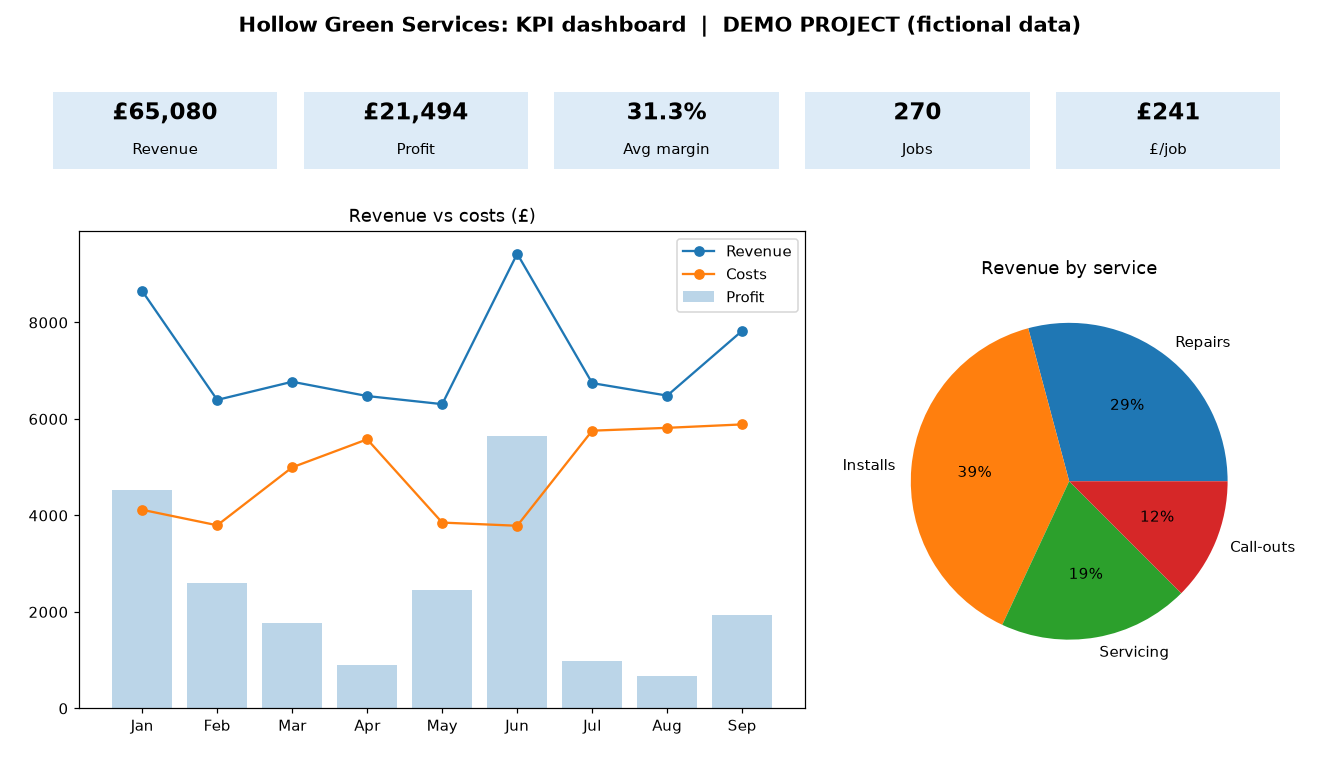
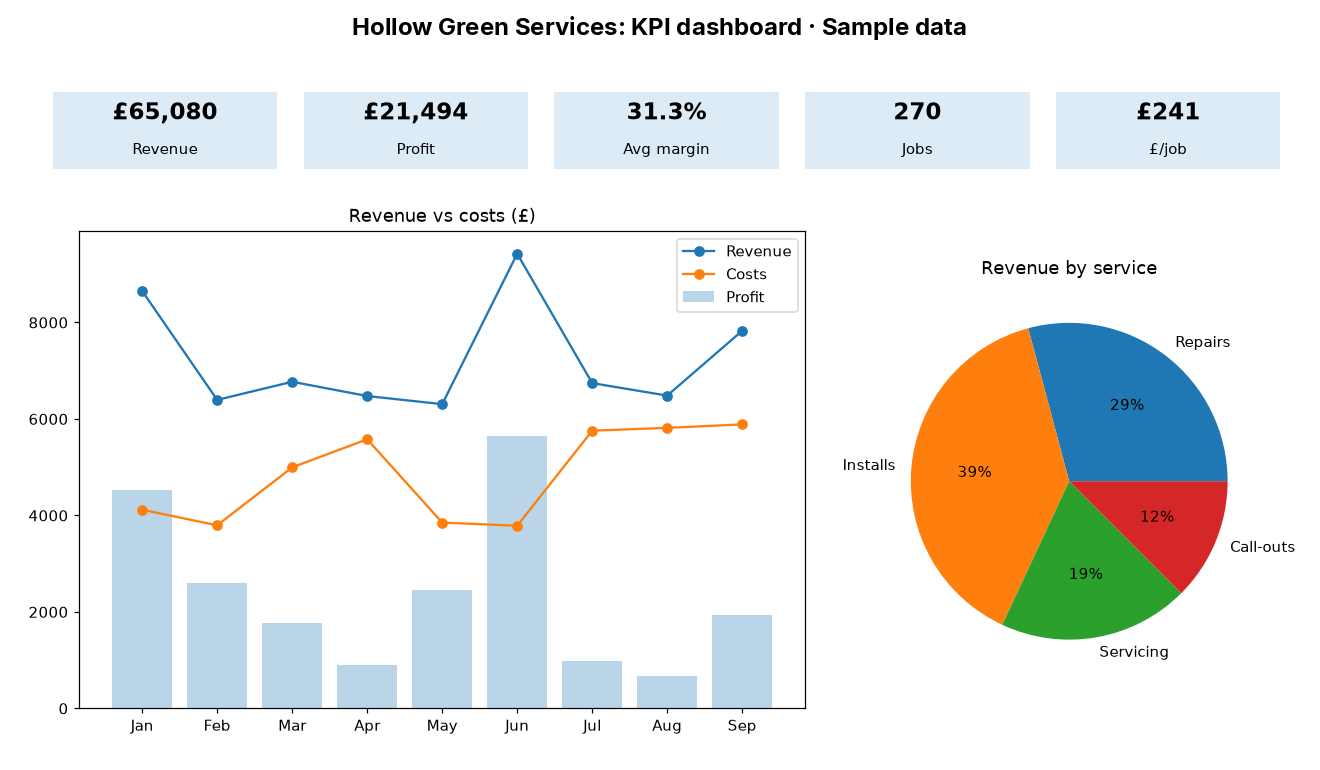
Replace the invoice terminal with an on-brand workbook preview
Show the sample invoice merge as a workbook preview with client totals, unpaid balances and a chart, and use that same graphic on the homepage card. Remove the banned sample labelling from the page, the script and the KPI workbook.

Changed region(s): [[0.1864, 0.0, 0.8076, 0.0623]]

diff --git a/demos/automation/index.html b/demos/automation/index.html
@@ -7,11 +7,11 @@
 <link rel="icon" type="image/png" sizes="32x32" href="/assets/icon-32.png">
 <link rel="apple-touch-icon" href="/assets/icon-180.png">
 <meta name="robots" content="noindex,nofollow">
-<title>Automation samples (Demo) | NewCo Studio portfolio</title>
-<meta name="description" content="Sample Python and spreadsheet automation: an invoice CSV merge and a small-business KPI dashboard. Fictional data by NewCo Studio.">
+<title>Automation samples | NewCo Studio</title>
+<meta name="description" content="Sample Python and spreadsheet automation: an invoice CSV merge and a small-business KPI dashboard. Sample data by NewCo Studio.">
 <meta property="og:type" content="website">
-<meta property="og:title" content="Automation samples (Demo) | NewCo Studio portfolio">
-<meta property="og:description" content="Sample Python and spreadsheet automation: an invoice CSV merge and a small-business KPI dashboard. Fictional data by NewCo Studio.">
+<meta property="og:title" content="Automation samples | NewCo Studio">
+<meta property="og:description" content="Sample Python and spreadsheet automation: an invoice CSV merge and a small-business KPI dashboard. Sample data by NewCo Studio.">
 <meta property="og:url" content="https://studio.newcopacks.co.uk/demos/automation/">
 <meta property="og:image" content="https://studio.newcopacks.co.uk/demos/automation/dashboard_render.png">
 <meta name="twitter:card" content="summary_large_image">
@@ -24,8 +24,81 @@ body{background:var(--sand)}
 .top .wrap{display:flex;align-items:center;justify-content:space-between;gap:16px;min-height:68px}
 main{padding:48px 0 80px}
 .case{background:#fff;border:1px solid var(--line);border-radius:var(--r);overflow:hidden;margin:28px 0}
-.case img{width:100%;height:auto;background:#111}
+.case img{width:100%;height:auto;background:#fff;display:block}
 .case .body{padding:28px}
+.sheet{background:#fff;color:var(--ink)}
+.sheet-bar{display:grid;grid-template-columns:minmax(0,1fr) auto;align-items:center;gap:12px;padding:16px 18px;background:radial-gradient(70% 160% at 100% 0%,rgba(156,196,184,.32),transparent 58%),var(--deep);color:#fff}
+.sheet-id{display:flex;align-items:center;gap:12px;min-width:0}
+.sheet-id>div{min-width:0}
+.sheet-ic{width:36px;height:36px;border-radius:10px;background:rgba(156,196,184,.16);display:grid;place-items:center;color:var(--mint);flex:none}
+.sheet-ic svg{width:20px;height:20px}
+.sheet-name{margin:0;font:700 1.02rem/1.2 Jakarta,Inter,sans-serif;letter-spacing:-.015em}
+.sheet-sub{margin:2px 0 0;color:#D5E4DF;font-size:.8rem}
+.sheet .pill{background:var(--mint);color:var(--deep);border-radius:999px;padding:6px 12px;font:600 .78rem/1 Inter,sans-serif;flex:none}
+.kpis{display:grid;grid-template-columns:1fr 1fr;margin:0}
+.kpis div{padding:14px 16px 13px;border-bottom:1px solid var(--line)}
+.kpis div:nth-child(odd){border-right:1px solid var(--line)}
+.kpis dt{margin:0;font:600 .72rem/1.2 Inter,sans-serif;letter-spacing:.08em;text-transform:uppercase;color:var(--muted)}
+.kpis dd{margin:6px 0 0;font:800 1.2rem/1 Jakarta,sans-serif;letter-spacing:-.03em;color:var(--deep);font-variant-numeric:tabular-nums;white-space:nowrap}
+.kpis .due dd{color:var(--teal)}
+.sheet-split{display:grid;gap:6px;padding:14px 16px 4px}
+table.inv{width:100%;border-collapse:collapse;font-variant-numeric:tabular-nums}
+table.inv th,table.inv td{padding:9px 8px 9px 0;text-align:right;font-weight:500;font-size:.92rem;border-bottom:1px solid var(--line);vertical-align:middle}
+table.inv thead th{font:600 .7rem/1.2 Inter,sans-serif;letter-spacing:.08em;text-transform:uppercase;color:var(--muted)}
+table.inv tbody th,table.inv thead th:first-child,table.inv tfoot th{text-align:left;color:var(--deep);font-weight:600}
+table.inv td:last-child{color:var(--teal);font-weight:600}
+table.inv tbody tr:last-child th,table.inv tbody tr:last-child td{border-bottom:0}
+table.inv tfoot th,table.inv tfoot td{border-top:2px solid var(--deep);border-bottom:0;background:#F7F4EE;font-weight:700;color:var(--deep);padding-top:11px;padding-bottom:11px}
+table.inv tfoot td:last-child{color:var(--teal)}
+.count{display:block;margin-top:2px;font:500 .75rem/1.3 Inter,sans-serif;color:var(--muted);letter-spacing:0;text-transform:none}
+.col-n{display:none}
+.bars .chart-title{margin:10px 0 12px;font:700 .98rem/1.2 Jakarta,sans-serif;color:var(--deep)}
+.brow{margin:0 0 11px}
+.bmeta{display:flex;justify-content:space-between;gap:10px;align-items:baseline;margin-bottom:5px;font-size:.84rem}
+.bmeta span:first-child{font-weight:600;color:var(--deep);min-width:0}
+.bmeta span:last-child{font-variant-numeric:tabular-nums;color:var(--teal);font-weight:600;white-space:nowrap}
+.track{height:9px;background:#E7E2D8;border-radius:999px;overflow:hidden}
+.bar{display:flex;height:100%;border-radius:999px;overflow:hidden}
+.bar i{display:block;height:100%}
+.bar .paid{background:var(--mint)}
+.bar .unpaid{background:var(--deep)}
+.legend{display:flex;flex-wrap:wrap;gap:8px 16px;align-items:center;margin:2px 0 8px;padding:0;list-style:none;font-size:.78rem;color:var(--muted)}
+.legend li{display:flex;align-items:center;gap:6px}
+.legend b{width:10px;height:10px;border-radius:3px;display:block}
+.legend .paid{background:var(--mint)}
+.legend .unpaid{background:var(--deep)}
+.sheet-note{margin:0;padding:4px 16px 16px;font-size:.84rem;color:var(--muted)}
+.vh{position:absolute;width:1px;height:1px;padding:0;margin:-1px;overflow:hidden;clip:rect(0 0 0 0);white-space:nowrap;border:0}
+@media (max-width:759px){
+table.inv th,table.inv td{font-size:.86rem;padding:8px 4px 8px 0}
+.kpis dd{font-size:1.15rem}
+}
+@media (max-width:520px){
+.sheet-bar{grid-template-columns:1fr;justify-items:start;gap:10px}
+}
+@media (max-width:380px){
+.kpis dd{font-size:1.05rem}
+table.inv thead{display:none}
+table.inv,table.inv tbody,table.inv tfoot{display:block;width:100%}
+table.inv tr{display:grid;grid-template-columns:1fr 1fr;column-gap:12px;row-gap:2px;padding:11px 0 12px;border-bottom:1px solid var(--line)}
+table.inv tbody th,table.inv tfoot th{grid-column:1/-1;border:0;padding:0 0 4px;text-align:left}
+table.inv td{display:block;text-align:left;border:0;padding:0}
+table.inv td.col-n{display:none}
+table.inv td::before{content:attr(data-label);display:block;margin-bottom:2px;font:600 .68rem/1.2 Inter,sans-serif;letter-spacing:.08em;text-transform:uppercase;color:var(--muted)}
+table.inv tfoot tr{background:#F7F4EE;border:0;border-top:2px solid var(--deep);border-radius:10px;margin-top:8px;padding:12px 10px}
+table.inv tfoot th,table.inv tfoot td{background:transparent;border:0}
+}
+@media (min-width:760px){
+.kpis{grid-template-columns:repeat(4,1fr)}
+.kpis div{border-right:1px solid var(--line)}
+.kpis div:last-child{border-right:0}
+.kpis dd{font-size:1.45rem}
+.sheet-split{grid-template-columns:minmax(0,1.2fr) minmax(0,.9fr);gap:28px;align-items:start;padding:18px 18px 8px}
+.col-n{display:table-cell}
+.count{display:none}
+.bars .chart-title{margin-top:0}
+.sheet-note{padding:0 18px 18px}
+}
 .files{display:flex;flex-wrap:wrap;gap:10px;margin-top:8px}
 </style>
 </head>
@@ -40,10 +113,53 @@ main{padding:48px 0 80px}
 <div class="wrap">
 <span class="eyebrow">Automation samples</span>
 <h1>Small jobs, shown working.</h1>
-<p class="lead">Two samples with sample numbers. Open the screenshots here, or download the Python script and the Excel workbooks. Nothing on this page is a real client.</p>
+<p class="lead">Two samples with sample numbers. The invoice summary is shown below, and you can download the Python script and the Excel workbooks. Nothing on this page is a real client.</p>
 
 <article class="case">
-<img src="screenshot_terminal.png" width="820" height="260" alt="Terminal output of a Python script merging invoice CSV files into an Excel summary">
+<div class="sheet" aria-labelledby="sheet-title">
+<div class="sheet-bar">
+<div class="sheet-id">
+<span class="sheet-ic" aria-hidden="true"><svg viewBox="0 0 24 24" fill="none" stroke="currentColor" stroke-width="1.8" stroke-linejoin="round"><rect x="3" y="2.5" width="18" height="19" rx="2"/><path d="M3 8.5h18M3 14h18M9 8.5V21.5M15 8.5V21.5"/></svg></span>
+<div>
+<p class="sheet-name" id="sheet-title">invoice_summary.xlsx</p>
+<p class="sheet-sub">By client · 3 source files</p>
+</div>
+</div>
+<span class="pill">Sample data</span>
+</div>
+<dl class="kpis">
+<div><dt>Invoices</dt><dd>24</dd></div>
+<div><dt>Invoiced</dt><dd>£10,850.53</dd></div>
+<div class="due"><dt>Unpaid</dt><dd>£2,978.43</dd></div>
+<div><dt>Source files</dt><dd>3</dd></div>
+</dl>
+<div class="sheet-split">
+<table class="inv">
+<caption class="vh">Sample totals by client. Amounts are example output, not a client job.</caption>
+<thead>
+<tr><th>Client</th><th class="col-n">Invoices</th><th>Total</th><th>Unpaid</th></tr>
+</thead>
+<tbody>
+<tr><th scope="row">Elmford Garage<span class="count">12 invoices</span></th><td class="col-n">12</td><td data-label="Invoiced">£6,490.17</td><td data-label="Unpaid">£1,676.90</td></tr>
+<tr><th scope="row">Hollow Green Bakery<span class="count">2 invoices</span></th><td class="col-n">2</td><td data-label="Invoiced">£573.73</td><td data-label="Unpaid">£76.65</td></tr>
+<tr><th scope="row">Riverside Dental<span class="count">6 invoices</span></th><td class="col-n">6</td><td data-label="Invoiced">£2,196.96</td><td data-label="Unpaid">£1,128.92</td></tr>
+<tr><th scope="row">Weldmere Florist<span class="count">4 invoices</span></th><td class="col-n">4</td><td data-label="Invoiced">£1,589.67</td><td data-label="Unpaid">£95.96</td></tr>
+</tbody>
+<tfoot>
+<tr><th scope="row">Total</th><td class="col-n">24</td><td data-label="Invoiced">£10,850.53</td><td data-label="Unpaid">£2,978.43</td></tr>
+</tfoot>
+</table>
+<figure class="bars" aria-hidden="true">
+<p class="chart-title">Invoiced by client</p>
+<div class="brow"><div class="bmeta"><span>Elmford Garage</span><span>£6,490.17</span></div><div class="track"><div class="bar" style="width:100%"><i class="paid" style="width:74.2%"></i><i class="unpaid" style="width:25.8%"></i></div></div></div>
+<div class="brow"><div class="bmeta"><span>Hollow Green Bakery</span><span>£573.73</span></div><div class="track"><div class="bar" style="width:8.8%"><i class="paid" style="width:86.6%"></i><i class="unpaid" style="width:13.4%"></i></div></div></div>
+<div class="brow"><div class="bmeta"><span>Riverside Dental</span><span>£2,196.96</span></div><div class="track"><div class="bar" style="width:33.9%"><i class="paid" style="width:48.6%"></i><i class="unpaid" style="width:51.4%"></i></div></div></div>
+<div class="brow"><div class="bmeta"><span>Weldmere Florist</span><span>£1,589.67</span></div><div class="track"><div class="bar" style="width:24.5%"><i class="paid" style="width:94%"></i><i class="unpaid" style="width:6%"></i></div></div></div>
+<ul class="legend"><li><b class="paid"></b> Paid</li><li><b class="unpaid"></b> Unpaid</li></ul>
+</figure>
+</div>
+<p class="sheet-note">Example output — not a client job. 24 invoices merged from 3 files.</p>
+</div>
 <div class="body">
 <h2>Invoice CSVs → one Excel summary</h2>
 <p>Merges a folder of monthly CSVs into a workbook with per-client totals, unpaid balances and a chart. Sample data. The script needs Python and openpyxl, and a folder of CSV files in the shape described at the top of the file.</p>

diff --git a/index.html b/index.html
@@ -330,7 +330,7 @@
 <a class="card-w" href="demos/hearth-and-crumb/"><div class="shot"><img src="assets/hearth-and-crumb.webp" srcset="assets/hearth-and-crumb-480.webp 480w, assets/hearth-and-crumb.webp 800w" sizes="(max-width: 640px) calc(100vw - 48px), (max-width: 960px) calc(50vw - 48px), 360px" width="800" height="500" alt="Hearth and Crumb café and bakery example homepage with latte art hero photo" loading="lazy" decoding="async"></div><div class="body"><span class="tag">Website · Café</span><h3>Hearth &amp; Crumb</h3><p>Warm café and bakery site with a full menu page, gallery and a book-a-table path.</p><span class="go">Open example site</span></div></a>
 <a class="card-w" href="demos/halvercroft-electrical/"><div class="shot"><img src="assets/halvercroft.webp" srcset="assets/halvercroft-480.webp 480w, assets/halvercroft.webp 800w" sizes="(max-width: 640px) calc(100vw - 48px), (max-width: 960px) calc(50vw - 48px), 360px" width="800" height="500" alt="Halvercroft Electrical example homepage with warm filament lighting hero photo" loading="lazy" decoding="async"></div><div class="body"><span class="tag">Website · Trades</span><h3>Halvercroft Electrical</h3><p>Trades site with services, “from” prices, a full price list and a fixed-quote call to action.</p><span class="go">Open example site</span></div></a>
 <a class="card-w" href="demos/paws-parlour/"><div class="shot"><img src="assets/paws-parlour.webp" srcset="assets/paws-parlour-480.webp 480w, assets/paws-parlour.webp 800w" sizes="(max-width: 640px) calc(100vw - 48px), (max-width: 960px) calc(50vw - 48px), 360px" width="800" height="500" alt="Paws Parlour dog grooming example homepage with groomer and white dog photo" loading="lazy" decoding="async"></div><div class="body"><span class="tag">Website · Dog groomer</span><h3>Paws Parlour</h3><p>Calm grooming salon site with prices by size and coat, gallery and a booking request form.</p><span class="go">Open example site</span></div></a>
-<a class="card-w wide" href="demos/automation/"><div class="shot"><img src="assets/python.webp" srcset="assets/python-480.webp 480w, assets/python.webp 800w" sizes="(max-width: 640px) calc(100vw - 48px), (max-width: 960px) calc(50vw - 48px), 548px" width="800" height="500" alt="Terminal output of a Python script merging invoice CSV files into an Excel summary" loading="lazy" decoding="async"></div><div class="body"><span class="tag">Python automation</span><h3>Invoice CSVs → one Excel summary</h3><p>Merges a folder of monthly CSVs into a workbook with per-client totals, unpaid balances and a chart. Sample data.</p><span class="go">See the output</span></div></a>
+<a class="card-w wide" href="demos/automation/"><div class="shot"><img src="assets/python.webp" srcset="assets/python-480.webp 480w, assets/python.webp 800w" sizes="(max-width: 640px) calc(100vw - 48px), (max-width: 960px) calc(50vw - 48px), 548px" width="800" height="500" alt="Sample invoice workbook with per-client totals, unpaid balances and a bar chart" loading="lazy" decoding="async"></div><div class="body"><span class="tag">Python automation</span><h3>Invoice CSVs → one Excel summary</h3><p>Merges a folder of monthly CSVs into a workbook with per-client totals, unpaid balances and a chart. Sample data.</p><span class="go">See the output</span></div></a>
 <a class="card-w wide" href="demos/automation/"><div class="shot"><img src="assets/sheets.webp" srcset="assets/sheets-480.webp 480w, assets/sheets.webp 800w" sizes="(max-width: 640px) calc(100vw - 48px), (max-width: 960px) calc(50vw - 48px), 548px" width="800" height="500" alt="Spreadsheet KPI dashboard with revenue line chart and service pie chart" loading="lazy" decoding="async"></div><div class="body"><span class="tag">Excel / Google Sheets</span><h3>Small-business KPI dashboard</h3><p>Update the monthly rows and every figure and chart refreshes. Works in Excel and Google Sheets. Sample data.</p><span class="go">See the dashboard</span></div></a>
 </div>
 </div></section>

diff --git a/demos/automation/merge_invoices.py b/demos/automation/merge_invoices.py
@@ -1,4 +1,4 @@
-"""Demo project: merge monthly invoice CSVs into one summary Excel workbook.
+"""Merge monthly invoice CSVs into one summary Excel workbook.
 Usage: python merge_invoices.py [input_folder] [output.xlsx]"""
 import csv, glob, os, sys
 from collections import defaultdict
